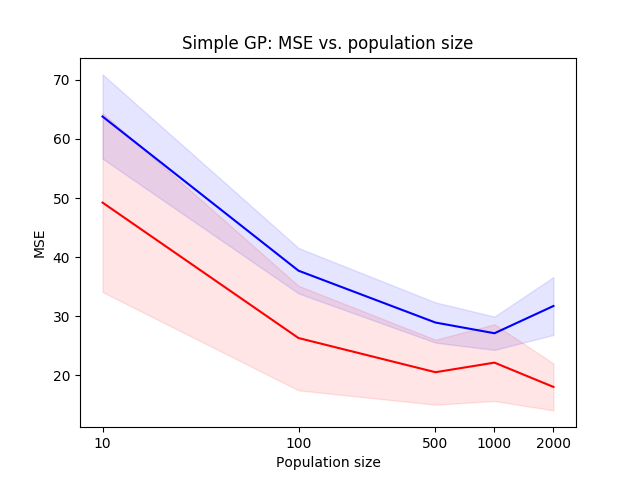
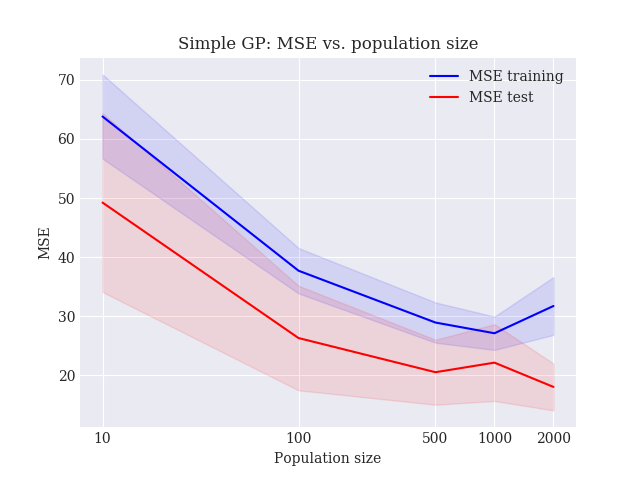
fix pop size plot

diff --git a/plots/plot_gp_pop_size.py b/plots/plot_gp_pop_size.py
@@ -8,6 +8,7 @@ import numpy as np
 matplotlib.style.use('seaborn-darkgrid')
 matplotlib.rcParams['font.family'] = "serif"
 
+
 def extract_mean_std(rest):
     split = rest.split(' ')
     return round(float(split[1]), 2), round(float(split[2]), 2)
@@ -17,7 +18,7 @@ def extract_value_per_run(size):
     with  open(f"../log/log_pop_size_{size}.txt", "r") as file_handle:
         line_list = file_handle.readlines()
 
-    results = line_list[-4]
+    results = line_list[-4:len(line_list)]
     mean_train, std_train = extract_mean_std(results[1])
     mean_test, std_test = extract_mean_std(results[3])
 
@@ -58,5 +59,6 @@ plt.xlabel('Population size')
 plt.ylabel('MSE')
 
 plt.title("Simple GP: MSE vs. population size")
+plt.legend()
 plt.savefig("../images/plot_gp_pop_size.png")
 plt.show()
